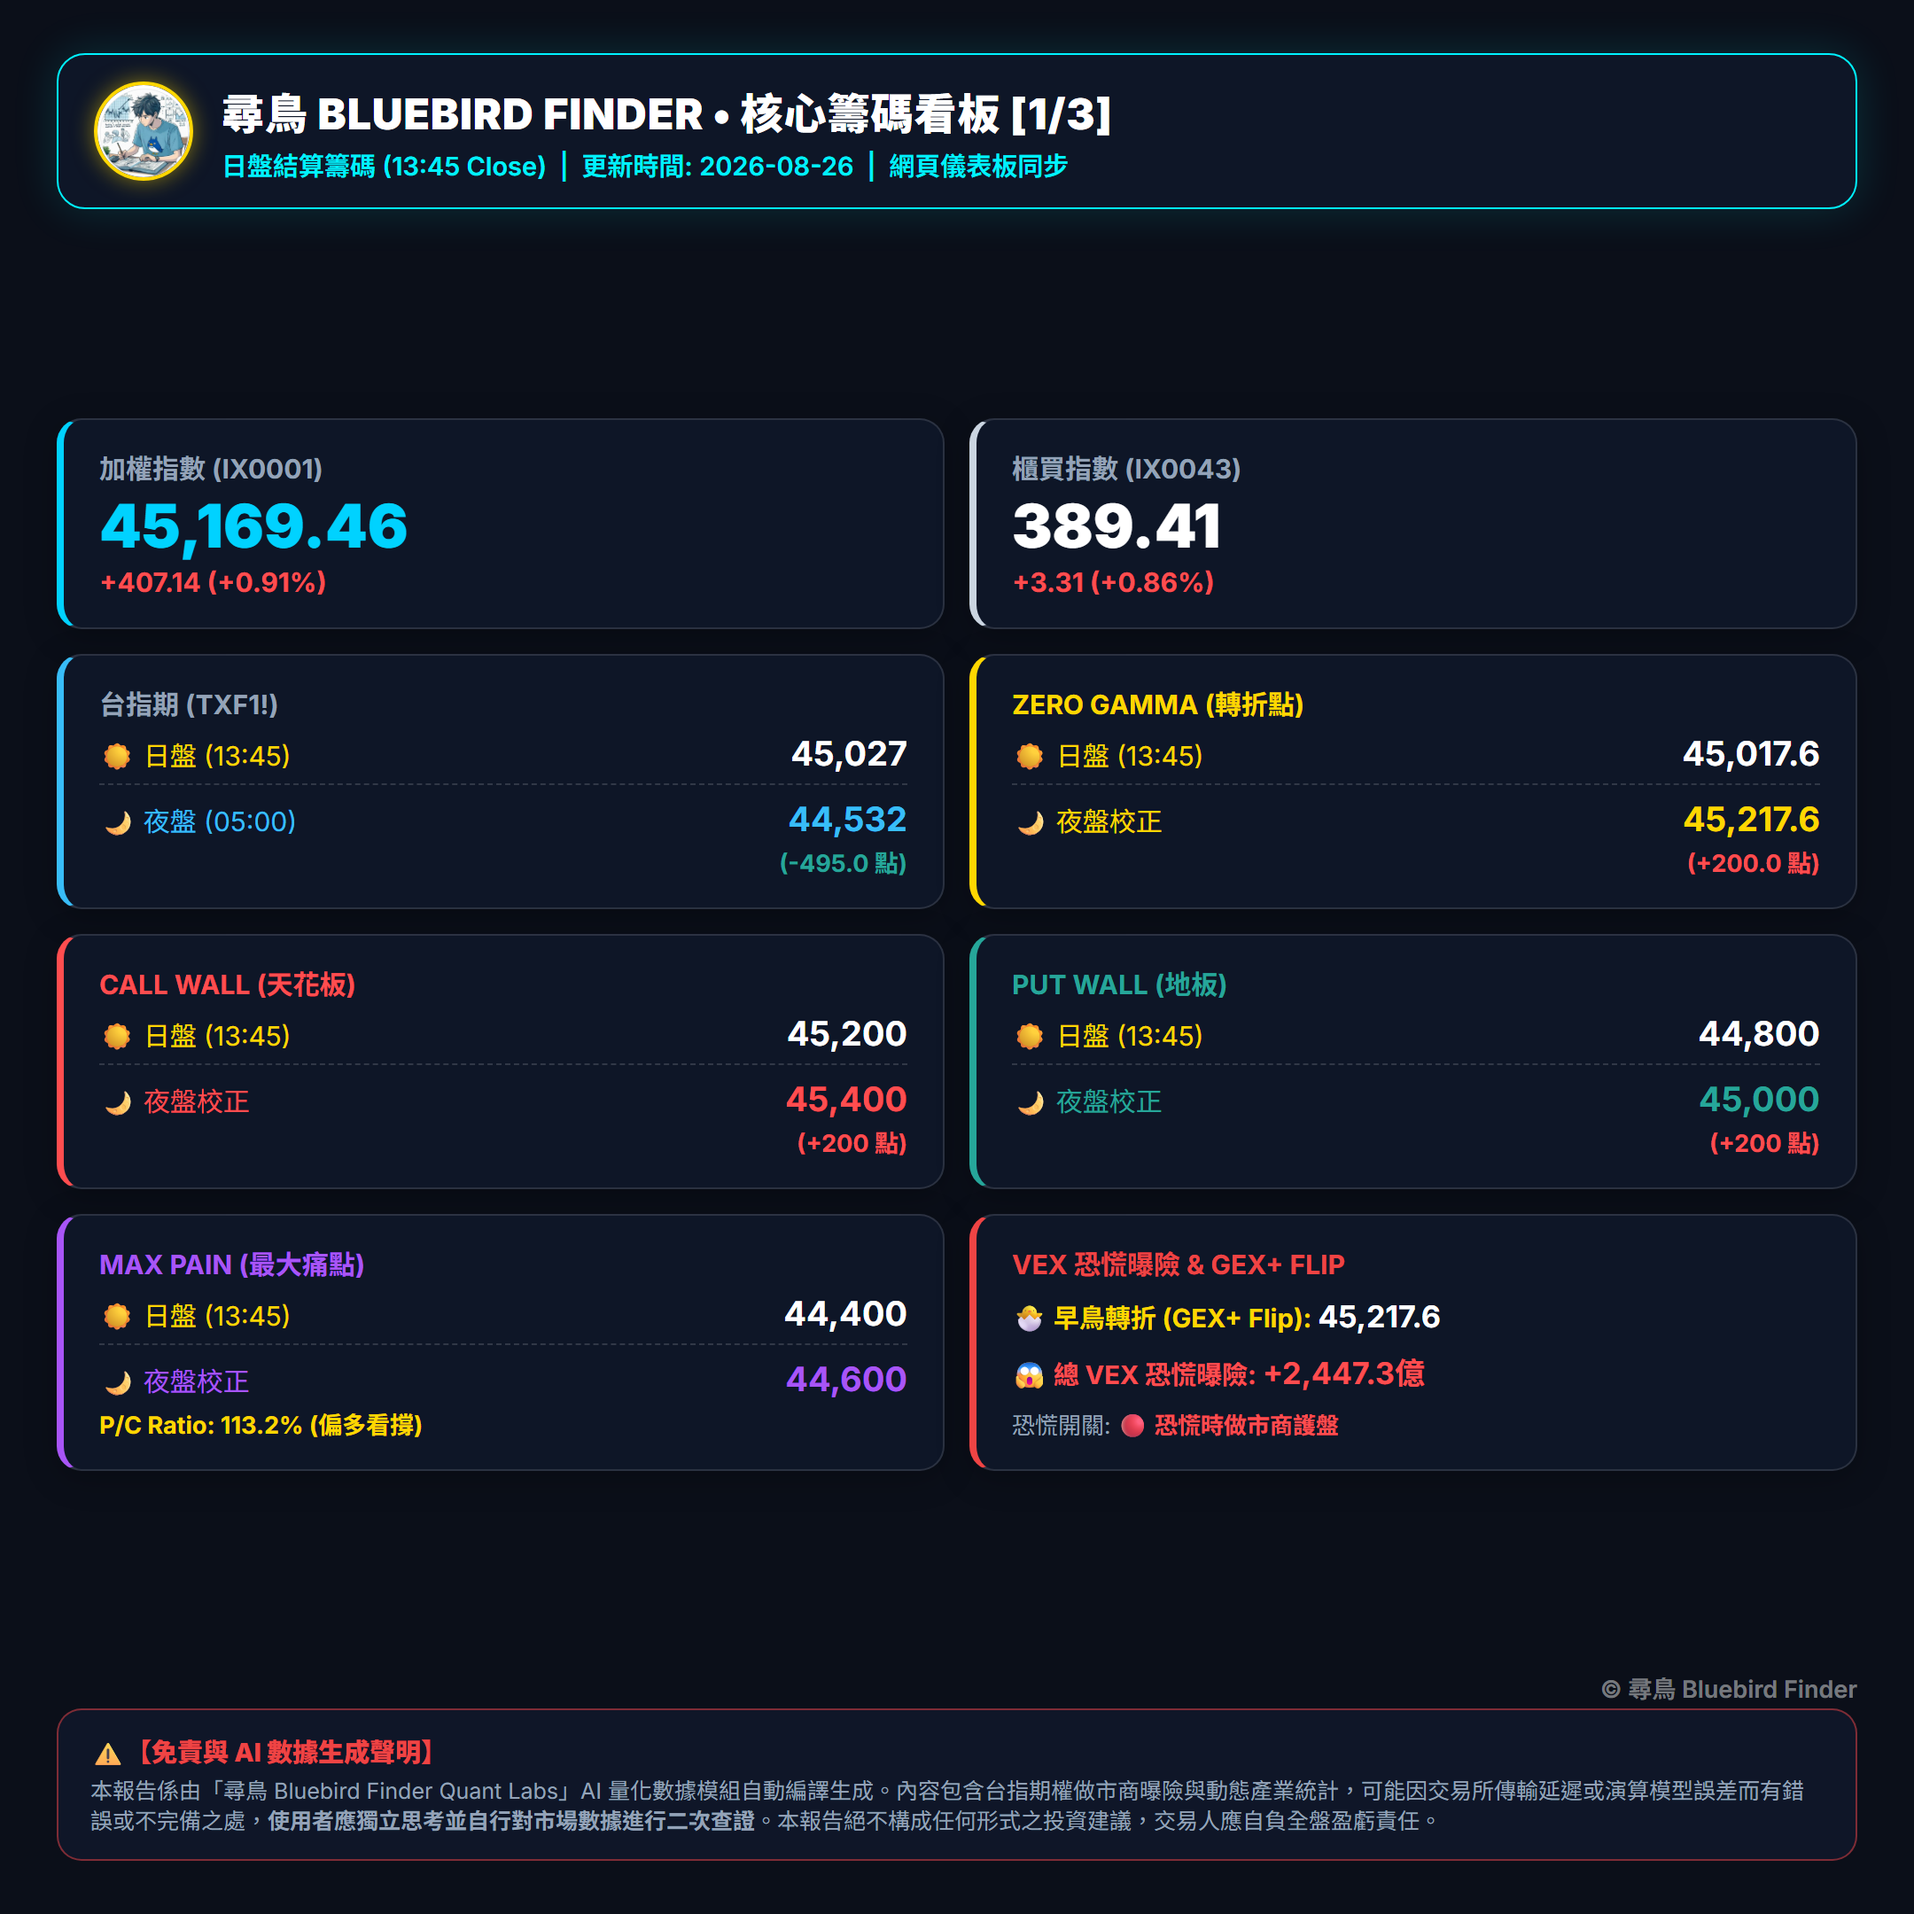
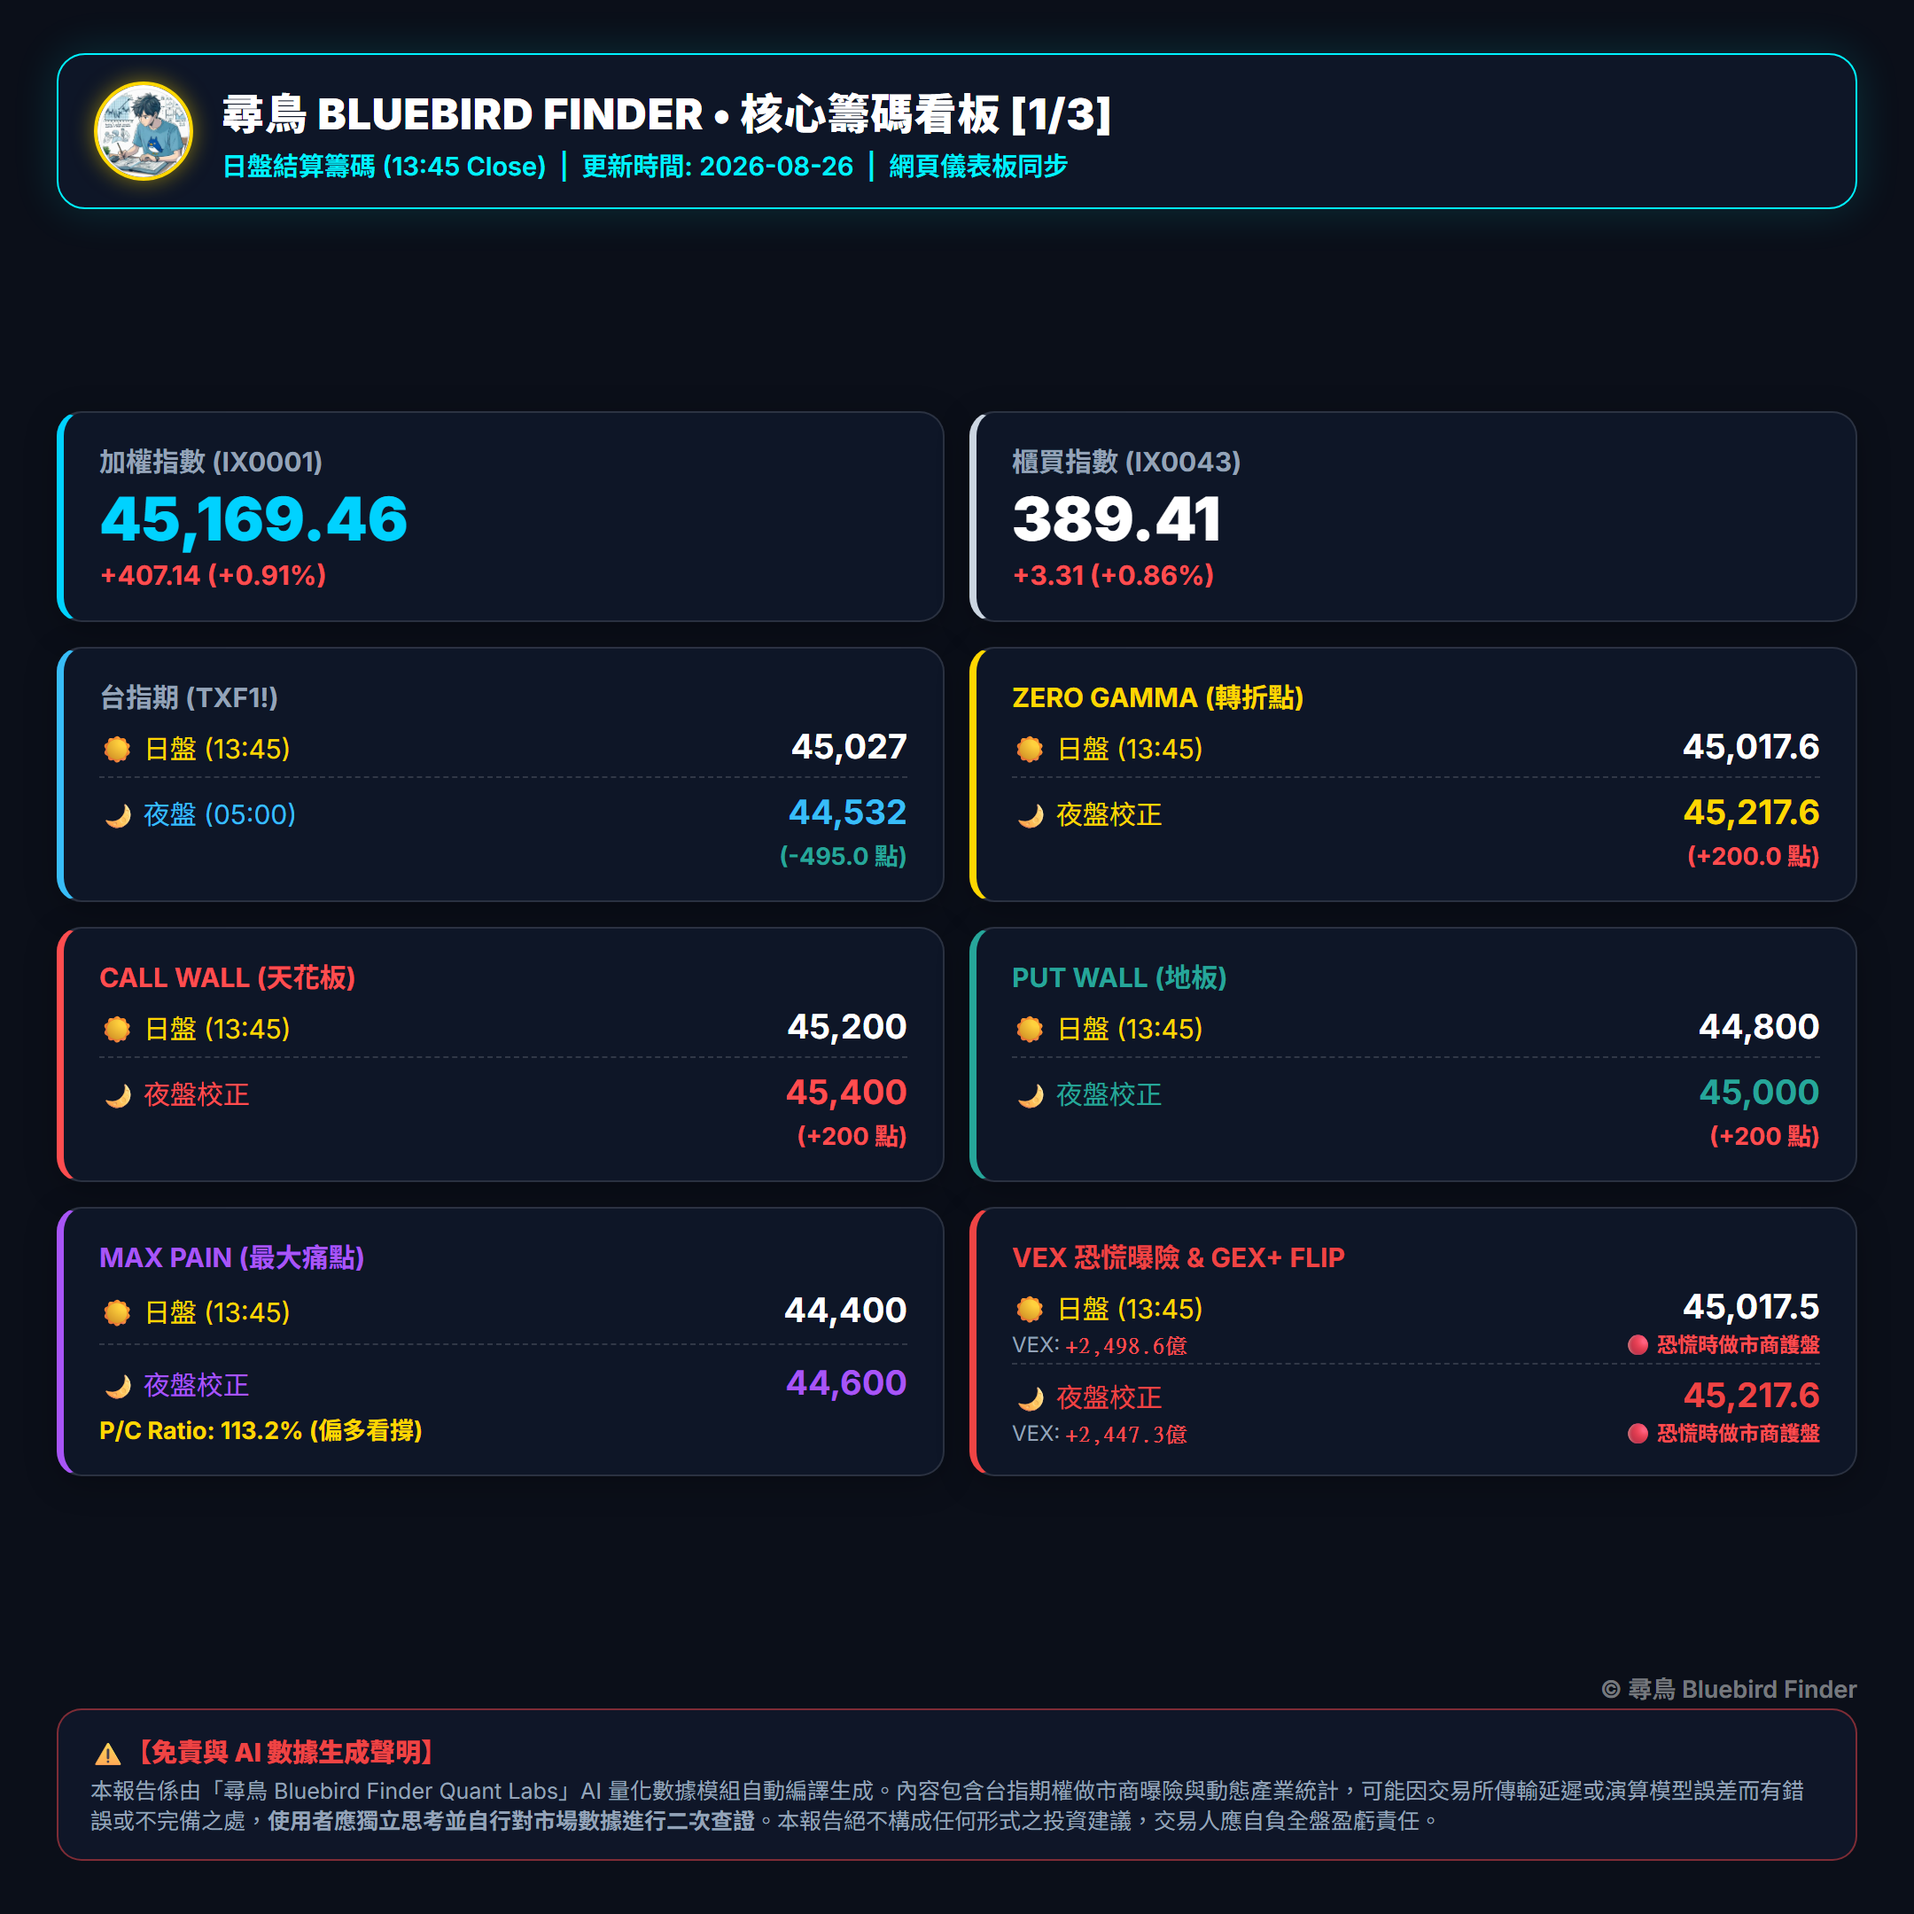
fix(social-card): align Card 8 VEX & GEX+ Flip to dual-session layout (☀ 日盤 vs 🌙 夜盤校正)

diff --git a/scripts/generate_social_card.py b/scripts/generate_social_card.py
@@ -167,11 +167,18 @@ def build_card1_html(data, avatar_url):
     pc_ratio = data.get("pc_ratio") or 113.2
     pc_badge = '大勝' if pc_ratio > 115 else ('偏多看撐' if pc_ratio > 105 else '偏空看壓')
 
-    # 8. VEX 恐慌曝險 & GEX+ FLIP
-    gex_plus_flip = data.get("gex_plus_flip") or 45217.1
-    total_vex = data.get("total_vex") or 2281.1
+    # 8. VEX 恐慌曝險 & GEX+ FLIP Dual Session
+    gex_plus_flip_day = session_shift.get("day_gex_plus_flip") or data.get("day_gex_plus_flip") or (data.get("gex_plus_flip", 45217.6) - 200.1)
+    gex_plus_flip = data.get("gex_plus_flip") or 45217.6
+    
+    total_vex_day = session_shift.get("day_total_vex") or data.get("day_total_vex") or (data.get("total_vex", 2447.3) + 51.3)
+    total_vex = data.get("total_vex") or 2447.3
+    
+    vex_badge_day = "🔴 恐慌時做市商護盤" if total_vex_day >= 0 else "🟢 恐慌時做市商助跌"
     vex_badge = "🔴 恐慌時做市商護盤" if total_vex >= 0 else "🟢 恐慌時做市商助跌"
+    vex_color_day = "#ff4d4f" if total_vex_day >= 0 else "#26a69a"
     vex_color = "#ff4d4f" if total_vex >= 0 else "#26a69a"
+    vex_sign_day = "+" if total_vex_day >= 0 else ""
     vex_sign = "+" if total_vex >= 0 else ""
 
     avatar_html = f'<img src="{avatar_url}" class="avatar-img">' if avatar_url else '<div style="width:56px;height:56px;border-radius:50%;background:#1e293b;border:2px solid #ffd700;"></div>'
@@ -328,16 +335,29 @@ def build_card1_html(data, avatar_url):
         <div style="font-size: 13.5px; color: #ffd700; margin-top: 3px; font-weight: bold;">P/C Ratio: {pc_ratio:.1f}% ({pc_badge})</div>
       </div>
 
-      <!-- Card 8: VEX 恐慌曝險 & GEX+ FLIP -->
+      <!-- Card 8: VEX 恐慌曝險 & GEX+ FLIP Dual Session -->
       <div class="stat-card" style="border-left: 4px solid #ef4444;">
         <div class="stat-label" style="color: #ef4444;">VEX 恐慌曝險 & GEX+ FLIP</div>
-        <div style="font-size: 14.5px; color: #ffd700; font-weight: 700; margin-bottom: 2px;">
-          🐣 早鳥轉折 (GEX+ Flip): <span style="color: #fff; font-size: 17px;">{gex_plus_flip:,.1f}</span>
+        
+        <div class="session-row">
+          <span style="color: #ffd700;">☀ 日盤 (13:45)</span>
+          <strong style="color: #fff; font-size: 19px;">{gex_plus_flip_day:,.1f}</strong>
         </div>
-        <div style="font-size: 14.5px; color: {vex_color}; font-weight: 700; margin-bottom: 3px;">
-          😱 總 VEX 恐慌曝險: <span style="color: {vex_color}; font-size: 17px;">{vex_sign}{total_vex:,.1f}億</span>
+        <div style="font-size: 12px; color: #94a3b8; display: flex; justify-content: space-between; align-items: center; margin-top: 1px;">
+          <span>VEX: <code style="color: {vex_color_day}; font-weight: bold;">{vex_sign_day}{total_vex_day:,.1f}億</code></span>
+          <span style="color: {vex_color_day}; font-weight: bold; font-size: 11.5px;">{vex_badge_day}</span>
         </div>
-        <div style="font-size: 13px; color: #94a3b8;">恐慌開關: <strong style="color: {vex_color};">{vex_badge}</strong></div>
+
+        <div class="divider" style="margin: 3px 0;"></div>
+
+        <div class="session-row">
+          <span style="color: #ef4444;">🌙 夜盤校正</span>
+          <strong style="color: #ef4444; font-size: 19px;">{gex_plus_flip:,.1f}</strong>
+        </div>
+        <div style="font-size: 12px; color: #94a3b8; display: flex; justify-content: space-between; align-items: center; margin-top: 1px;">
+          <span>VEX: <code style="color: {vex_color}; font-weight: bold;">{vex_sign}{total_vex:,.1f}億</code></span>
+          <span style="color: {vex_color}; font-weight: bold; font-size: 11.5px;">{vex_badge}</span>
+        </div>
       </div>
 
     </div>
